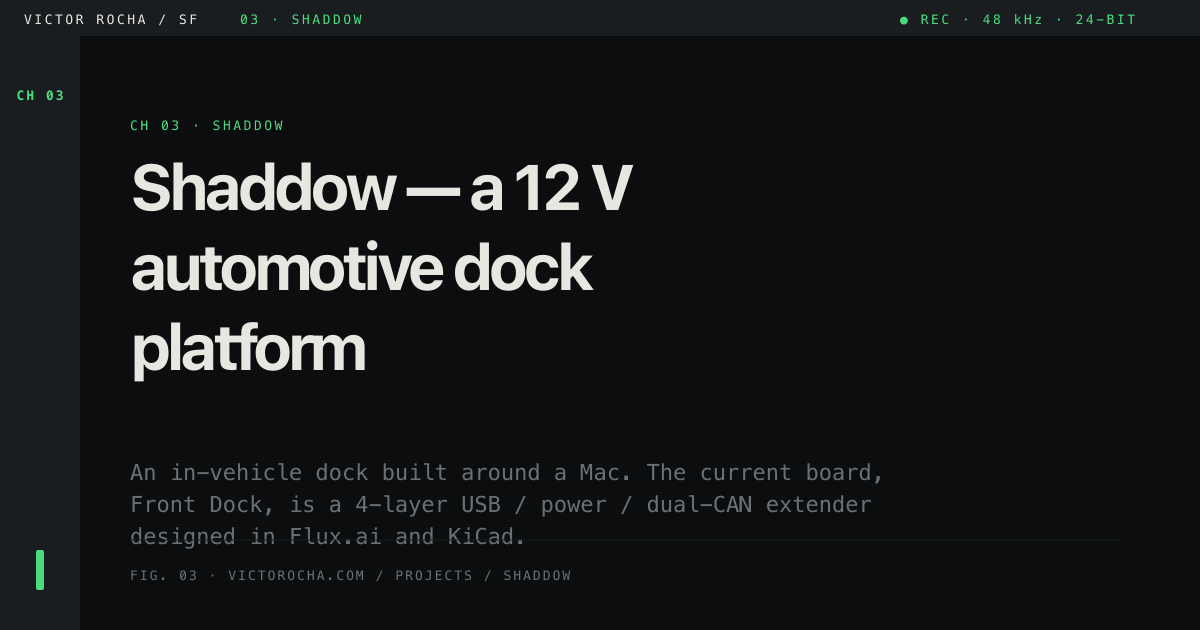
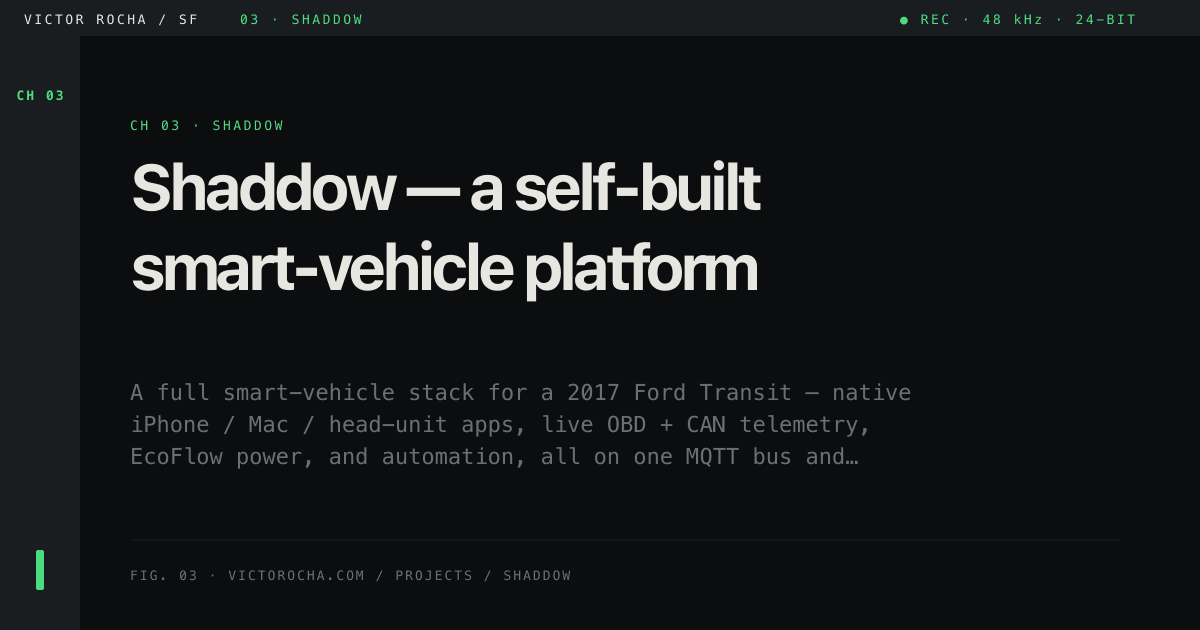
Rewrite Shaddow as a software pitch (Shadow Van platform)
Reframe the project page from PCB-first to software-first, per the actual
scope of the work:
- Lead with the platform: native iPhone/Mac (SwiftUI) + Android head-unit
  apps, OBD/CAN telemetry, EcoFlow power, Node-RED/Home Assistant automation,
  local AI — all on one MQTT bus, self-hosted in the van over Tailscale
- New visuals from the repo: live head-unit dashboard screenshot + a
  sanitized system-architecture diagram (exported from the project's drawio;
  redacted personal email, VIN, and Tailscale/LAN IPs before publishing)
- 12V dock PCB (Front Dock) demoted to a short 'hardware track, on hold' note
- Homepage card meter + tags updated from hardware to software
- Removed orphaned front-dock-plan flowchart

diff --git a/src/content/projects/shaddow.md b/src/content/projects/shaddow.md
@@ -1,100 +1,81 @@
 ---
-title: "Shaddow — a 12 V automotive dock platform"
-summary: "An in-vehicle dock built around a Mac. The current board, Front Dock, is a 4-layer USB / power / dual-CAN extender designed in Flux.ai and KiCad."
+title: "Shaddow — a self-built smart-vehicle platform"
+summary: "A full smart-vehicle stack for a 2017 Ford Transit — native iPhone / Mac / head-unit apps, live OBD + CAN telemetry, EcoFlow power, and automation, all on one MQTT bus and self-hosted in the van."
 status: active
 featured: true
 order: 1
-tags: ["hardware", "kicad", "flux.ai", "automotive", "usb"]
+tags: ["software", "mqtt", "swift", "kotlin", "iot", "automotive"]
 ---
 
 <figure class="photo full-bleed">
   <picture>
-    <source type="image/webp" srcset="/images/shaddow/disassembly-1200.webp 1200w, /images/shaddow/disassembly-1600.webp 1600w" sizes="100vw" />
-    <img src="/images/shaddow/disassembly-1200.jpg" srcset="/images/shaddow/disassembly-1200.jpg 1200w, /images/shaddow/disassembly-1600.jpg 1600w" sizes="100vw" alt="Shaddow hardware mid-disassembly laid out on dark velvet — exposed PCB, ribbon harnesses, and machined enclosure halves arranged like an exploded view." width="1600" height="1067" loading="eager" decoding="async" />
+    <source type="image/webp" srcset="/images/shaddow/headunit-dash-1280.webp 1280w, /images/shaddow/headunit-dash-640.webp 640w" sizes="100vw" />
+    <img src="/images/shaddow/headunit-dash-1280.jpg" srcset="/images/shaddow/headunit-dash-1280.jpg 1280w, /images/shaddow/headunit-dash-640.jpg 640w" sizes="100vw" alt="The Shadow Van in-dash head unit — a dark dashboard showing the EcoFlow battery at 88%, a connected iPhone source, AUX / CarPlay / Bluetooth / Radio tiles, a live vehicle matrix (speed, RPM, fuel), now-playing, and GPS coordinates." width="1280" height="720" loading="eager" decoding="async" />
   </picture>
-  <figcaption><span class="fig">FIG. 01 ·</span> SHADDOW / DISASSEMBLY · BENCH · 2026</figcaption>
+  <figcaption><span class="fig">FIG. 01 ·</span> SHADDOW · HEAD-UNIT DASHBOARD · IN-VAN</figcaption>
 </figure>
 
-**Shaddow** is the project name for the hardware I'm building around a Mac
-that lives in a vehicle dashboard. The Mac does all the processing; Shaddow
-provides power, I/O, vehicle integration, and the physical mounting that
-makes a laptop behave like a head unit.
+**Shaddow** (a.k.a. *Shadow Van*) is a smart-vehicle platform I built from
+scratch for my 2017 Ford Transit. One message bus — MQTT — ties together a
+native in-dash head unit, iPhone and Mac apps, live vehicle telemetry, the
+house battery, and a stack of automation services, so the van runs as one
+connected system instead of a pile of disconnected gadgets.
 
-The current board is **Front Dock** — the first piece of Shaddow on a PCB.
+The software is mine end to end. A custom 12 V dock board is a separate
+hardware track, currently on hold — more on that at the bottom.
 
-## Overview
+## What it does
 
-A 4-layer board, designed thin-edge / fat-core: a single USB 2.0 uplink to
-the Mac fans out through an on-board hub to every peripheral, and power is
-generated locally from a 12 V input (an EcoFlow LiFePO4 house battery in
-the test van). Target board cost: roughly $150–270 for the first 5 units
-through JLCPCB.
+A single Mosquitto MQTT broker is the contract every part speaks. Around it:
 
-## Stack
-
-- **Power** — reverse-polarity FET (DMP3013SFV), TVS (SMCJ18CA), fused
-  input → 45 W USB-C PD (LM51772 4-switch buck-boost + TPS25751 PD
-  controller, EEPROM-configured for 5/9/15 V at ≤45 W). Then 5 V / 3 A
-  via TPS54331 buck, 3.3 V via TLV1117. A separate isolated 5 V rail
-  feeds the CAN side through an SN6505B transformer driver and a small
-  isolation transformer.
-- **USB hub + Mac uplink** — two cascaded FE1.1S 2.0 hubs, USB-C device
-  uplink with proper CC pulldowns, USBLC6 ESD on every pair.
-- **Video** — MS2130 USB-UVC capture fed by a CVBS-to-HDMI front end,
-  with a THS7374 75 Ω buffer for a low-latency loop-through to the head
-  unit.
-- **Audio** — PCM2904 USB audio codec, AC-coupled line in and line out.
-- **Front camera** — off-board IMX462 UVC module on a 4-pin USB header.
-- **Dual CAN, read-only, isolated** — STM32G0B1 (native dual FDCAN) with
-  two ISO1042 isolated transceivers on the vehicle-ground side. No
-  on-board termination, listen-only — the only allowed TX is OBD-II PID
-  requests.
-- **Control** — ESP32-S3 over native USB-CDC, BTS7008 PROFET high-side
-  switches driving relay outputs, INA226 monitoring the 12 V rail, plus
-  brownout / ignition / reverse / door sense inputs.
-- **Remote start** — Fortin EVO-FORT1 interface, opto-isolated on the
-  vehicle-ground side: three dry-contact outputs (START / LOCK / UNLOCK)
-  and two status inputs (RUNNING + status).
+- **Native apps, shared code** — a SwiftUI app that runs on iPhone *and* as a
+  native macOS app from one codebase, plus an Android head-unit app running
+  kiosk-mode on the in-dash screen.
+- **Vehicle telemetry** — an OBD-II poller (RPM, coolant, fuel, range) and a
+  read-only CAN tap (doors, windows, diagnostics) on the Transit's buses,
+  normalized onto MQTT.
+- **Power** — EcoFlow DELTA Pro battery telemetry and control: state of charge,
+  per-port watts, AC/DC, with an energy dashboard and 7-day history.
+- **Automation & alerts** — Node-RED flows and Home Assistant (~46 entities)
+  react to all of it; a health monitor pushes problems to my phone over Apple
+  Push, iMessage, or an AI summary.
+- **AI, local-first** — on-box Ollama models with an OpenRouter fallback,
+  reachable from the apps through an MCP control plane that itself lives on MQTT.
 
 <figure class="photo full-bleed">
-  <img src="/images/shaddow/front-dock-plan.png" alt="Front Dock revised-plan flowchart — skip Flux, KiCad to JLCPCB cost/timeline, two chip-swap fixes (MS2106 video; IP2368/TPS25751DREFR power), and a hand-routing bottleneck note." width="1188" height="691" loading="lazy" decoding="async" />
-  <figcaption><span class="fig">FIG. 02 ·</span> FRONT DOCK · REVISED PLAN · KICAD → JLCPCB · ROUTING PASS</figcaption>
+  <picture>
+    <source type="image/webp" srcset="/images/shaddow/architecture-1200.webp 1200w, /images/shaddow/architecture-1600.webp 1600w" sizes="100vw" />
+    <img src="/images/shaddow/architecture-1200.jpg" srcset="/images/shaddow/architecture-1200.jpg 1200w, /images/shaddow/architecture-1600.jpg 1600w" sizes="100vw" alt="Shadow Van system-context diagram — four layers (people and devices, cloud services, connectivity, van systems) wired through a central Mosquitto MQTT broker, with the SwiftUI app, Android head unit, OBD/CAN, EcoFlow, Node-RED, Home Assistant, Grafana, and local AI." width="1600" height="1185" loading="lazy" decoding="async" />
+  </picture>
+  <figcaption><span class="fig">FIG. 02 ·</span> SHADDOW · SYSTEM ARCHITECTURE · MQTT BUS</figcaption>
 </figure>
 
-## Design rules I committed to
+## The stack underneath
 
-Galvanic isolation between the CAN transceivers / Fortin interface and the
-board ground (single star to the EcoFlow DC negative). CAN strictly
-listen-only — the vehicle bus is already terminated, and I don't want to
-write to anything I don't have to. macOS sees the dual-CAN MCU as SLCAN
-and talks to it via python-can.
+Everything self-hosts on an Apple-silicon Mac in the van, reachable from
+anywhere over Tailscale:
 
-## Status
+- **Dockerized services** — Mosquitto, InfluxDB + Grafana (history and
+  dashboards), Node-RED, Home Assistant, AdGuard.
+- **CI/CD** — push to `main`, GitHub Actions deploys to the van over SSH.
+- **Always-on** — T-Mobile 5G for connectivity, EcoFlow LiFePO4 for power, so
+  the system stays up independent of the ignition.
 
-Schematic and placement are done. I'm wrapping up the routing pass and
-DRC cleanup against JLCPCB's rules, then it goes to fab. Rev B will add
-a bench-test harness so the same firmware that runs in a vehicle can
-validate the board on a desk — closing the loop between dashboard tests
-and the lab.
+## Where it stands
 
-The proving ground is a self-built camper van — a 12 V workshop on wheels,
-and the bench where this hardware actually has to survive. The fixes that
-last aren't the prettiest ones; they're the ones I can redo at 11 pm in a
-parking lot. That lesson travels well to software, too.
+The software runs daily: the head unit, the phone and Mac apps, telemetry,
+power, and automation are all live in the van.
 
-## Why Flux.ai *and* KiCad
+The hardware track — **Front Dock**, a custom 4-layer 12 V dock PCB (on-board
+USB hub, local power generation, and an isolated read-only dual-CAN interface,
+designed in KiCad and Flux.ai) — collapses a bench of adapters into one board.
+It's **on hold**: the next steps there are going to a hardware collaborator
+while I keep building the software side.
 
-I started in Flux.ai for the schematic capture — fast, agreeable to the
-AI-assisted placement workflow, and good at the early-iteration phase
-when the architecture is still moving. The serious layout work moved to
-KiCad: more control over multi-layer routing, copper pours, and the
-exact JLCPCB-spec fab pack. Flux is the napkin; KiCad is where the board
-actually ships from.
-
-## Why it exists
-
-A vehicle "12 V" rail is anything but 12 V. It sags during a crank,
-spikes on a load dump, and is noisy whenever the alternator is awake.
-Shaddow's whole point is to absorb that and present clean, monitored
-rails to everything downstream — and to do the vehicle-bus integration
-so the Mac on top doesn't have to.
+<figure class="photo full-bleed">
+  <picture>
+    <source type="image/webp" srcset="/images/shaddow/disassembly-1200.webp 1200w, /images/shaddow/disassembly-1600.webp 1600w" sizes="100vw" />
+    <img src="/images/shaddow/disassembly-1200.jpg" srcset="/images/shaddow/disassembly-1200.jpg 1200w, /images/shaddow/disassembly-1600.jpg 1600w" sizes="100vw" alt="Shaddow hardware mid-disassembly laid out on dark velvet — exposed PCB, ribbon harnesses, and machined enclosure halves arranged like an exploded view." width="1600" height="1067" loading="lazy" decoding="async" />
+  </picture>
+  <figcaption><span class="fig">FIG. 03 ·</span> FRONT DOCK · HARDWARE TRACK (ON HOLD) · BENCH · 2026</figcaption>
+</figure>